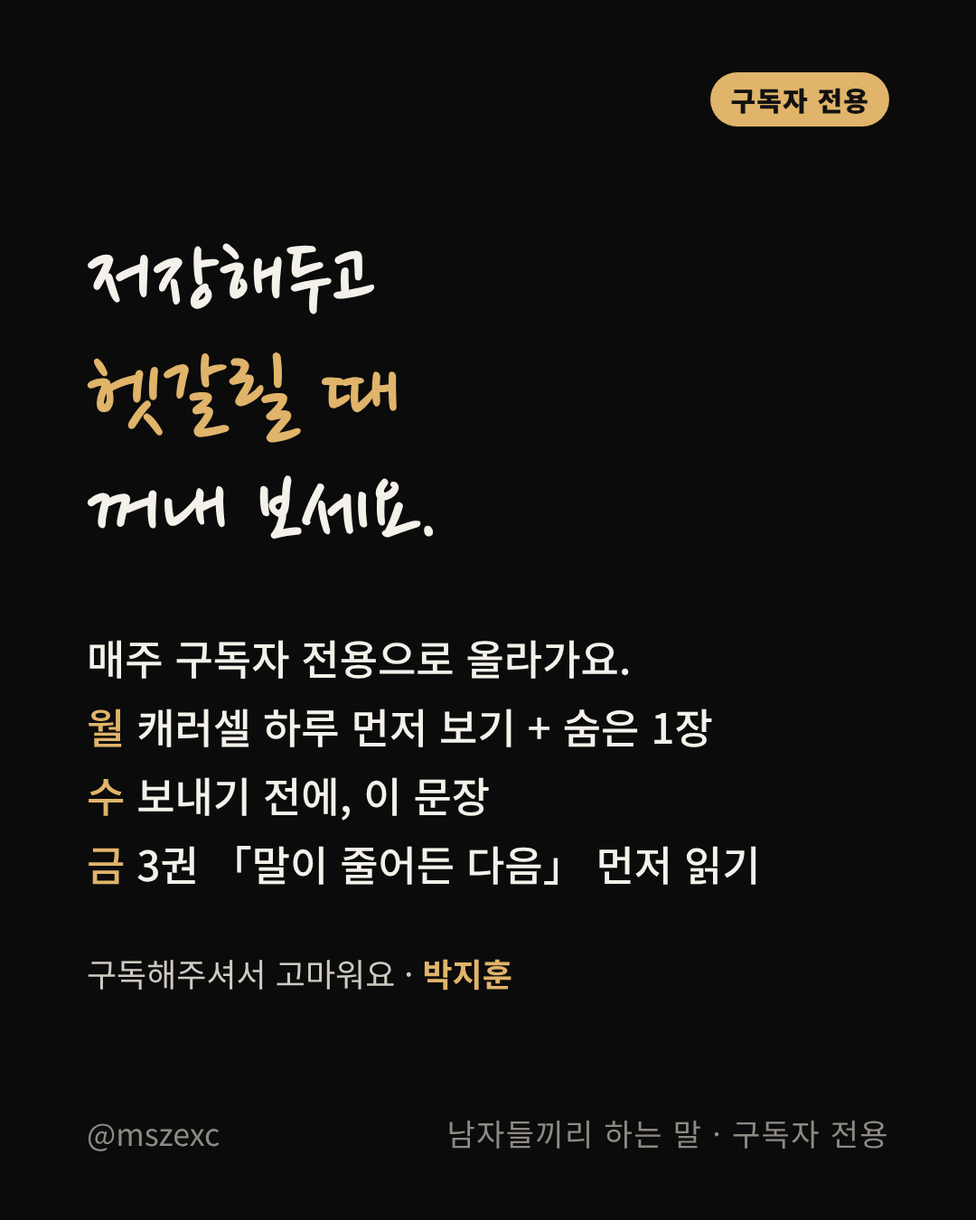
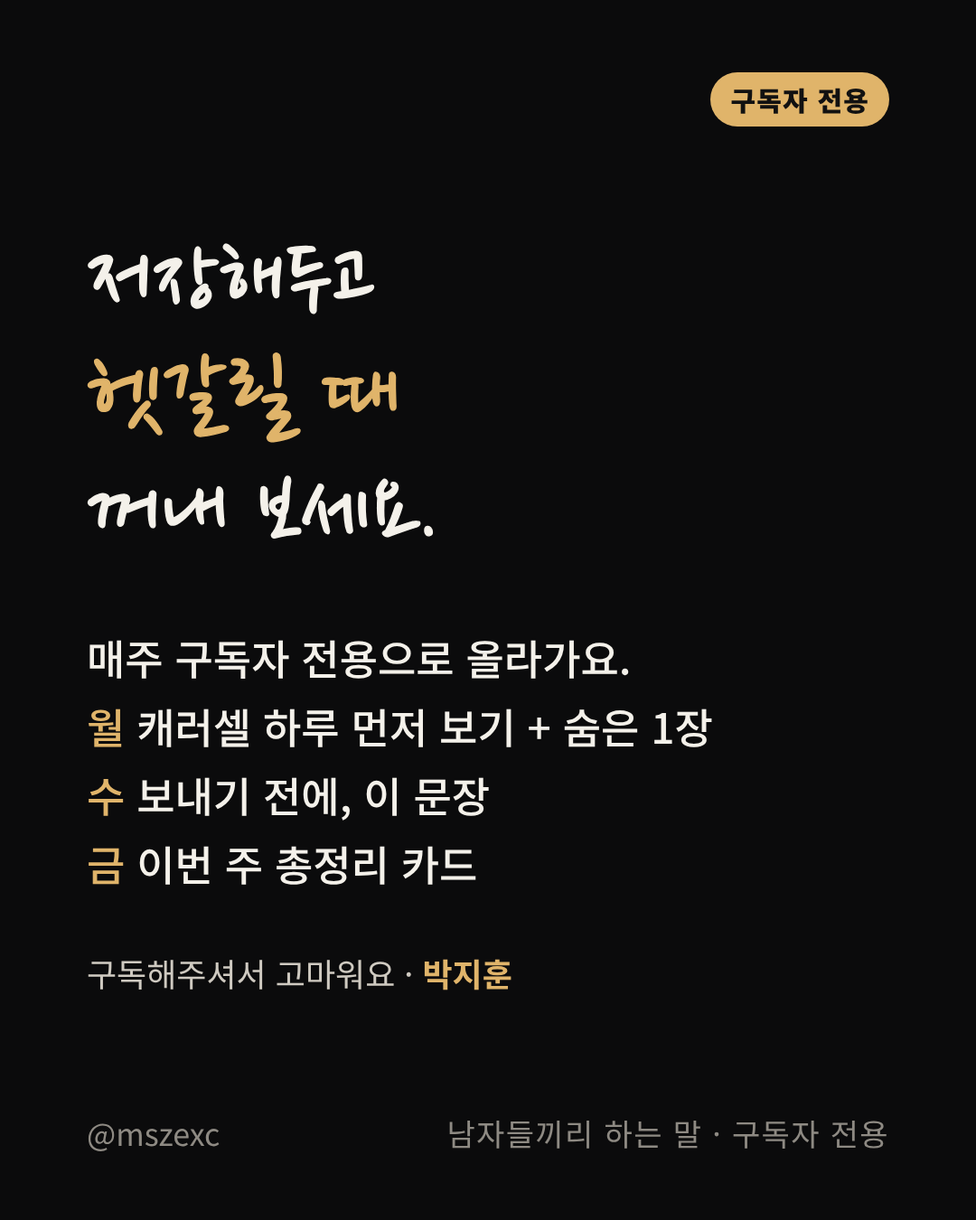
Carousel #20 (썸 번역); R2 closing for same-day post; subscription: Friday recap card and preview strategy
Claude-Session: https://claude.ai/code/session_01J9i5yL8MFhQ5W67Sx3nDW6

Changed region(s): [[0.1222, 0.6844, 0.55, 0.7467], [0.6111, 0.6844, 0.7944, 0.7467]]

diff --git a/carousel/carousel_20.html b/carousel/carousel_20.html
@@ -1,0 +1,258 @@
+<!doctype html>
+<html lang="ko">
+<head>
+<meta charset="utf-8">
+<link rel="stylesheet" href="https://fonts.googleapis.com/css2?family=Nanum+Pen+Script&family=Noto+Sans+KR:wght@400;500;700;900&display=block">
+<style>
+  :root { --bg:#0b0b0c; --ink:#f4f1ea; --dim:#8e8a83; --accent:#e0b46a; --cold:#7fa7c9; --line:#2a2a2d; }
+  * { box-sizing:border-box; margin:0; padding:0; }
+  body { word-break:keep-all; background:#222; font-family:'Noto Sans KR', sans-serif; color:var(--ink); }
+  .slide { width:1080px; height:1350px; background:var(--bg); position:relative; overflow:hidden;
+           padding:120px 96px; display:flex; flex-direction:column; justify-content:center; margin-bottom:20px; }
+  .pen { font-family:'Nanum Pen Script', cursive; font-weight:400; line-height:1.15; }
+  .h1 { font-size:150px; }
+  .h2 { font-size:112px; }
+  .h3 { font-size:86px; }
+  .body { font-size:46px; line-height:1.65; font-weight:500; }
+  .small { font-size:34px; color:var(--dim); line-height:1.6; }
+  .dim { color:var(--dim); }
+  .accent { color:var(--accent); }
+  .cold { color:var(--cold); }
+  .series { position:absolute; right:96px; bottom:72px; font-size:28px; color:var(--dim); letter-spacing:.04em; }
+  .handle { position:absolute; left:96px; bottom:72px; font-size:28px; color:var(--dim); }
+  .num { position:absolute; left:96px; top:80px; font-size:30px; color:var(--dim); letter-spacing:.08em; }
+  .swipe { position:absolute; right:96px; top:80px; font-size:30px; color:var(--dim); }
+  .mt-s { margin-top:28px; } .mt-m { margin-top:56px; } .mt-l { margin-top:96px; }
+  .rule { height:2px; background:var(--line); margin:56px 0; }
+  /* cover */
+  .photo { position:absolute; inset:0; background:
+           radial-gradient(ellipse at 50% 38%, #3a3a3e 0%, #161617 55%, #0b0b0c 80%); }
+  .photo-note { position:absolute; top:330px; left:0; right:0; text-align:center; font-size:30px; color:#55555a;
+                border:3px dashed #3a3a3e; margin:0 220px; padding:150px 0; border-radius:24px; }
+  .cover-text { position:absolute; left:96px; right:96px; bottom:200px; }
+  .shade { position:absolute; left:0; right:0; bottom:0; height:700px; background:linear-gradient(transparent, rgba(0,0,0,.92) 45%); }
+  /* compare */
+  .topic { font-size:40px; font-weight:700; color:var(--dim); letter-spacing:.06em; }
+  .row { display:flex; flex-direction:column; gap:36px; margin-top:64px; }
+  .card { border-radius:28px; padding:44px 52px; }
+  .card.cold { background:#111a22; border:2px solid #24384a; }
+  .card.warm { background:#1d1710; border:2px solid #4a3a20; }
+  .tag { font-size:32px; font-weight:900; margin-bottom:16px; }
+  .card .pen { font-size:80px; margin-bottom:20px; color:var(--ink); }
+  .card p { font-size:36px; line-height:1.6; color:#cfcac1; }
+  .key { margin-top:64px; font-size:40px; line-height:1.6; font-weight:700; }
+  /* share slide */
+  .msg { background:#1c1c1f; border-radius:36px; padding:52px 56px; font-size:46px; line-height:1.6; position:relative; }
+  .msg:after { content:''; position:absolute; left:60px; bottom:-26px; border:16px solid transparent; border-top:20px solid #1c1c1f; }
+  .btns { display:flex; gap:24px; margin-top:72px; }
+  .btn { flex:1; text-align:center; padding:34px 0; border-radius:20px; font-size:36px; font-weight:700; }
+  .btn.share { background:var(--accent); color:#111; }
+  .btn.save { border:2px solid #444; color:var(--ink); }
+  .sub { margin-top:60px; font-size:32px; color:var(--dim); line-height:1.6; }
+</style>
+<style>
+  .phrase { font-family:'Nanum Pen Script'; font-size:150px; line-height:1.1; }
+  .tr { margin-top:64px; border-top:2px solid var(--line); }
+  .tr .r { padding:34px 0; border-bottom:2px solid var(--line); }
+  .tr .k { font-size:30px; font-weight:900; letter-spacing:.06em; margin-bottom:12px; }
+  .tr .v { font-size:42px; line-height:1.55; font-weight:500; }
+  .do { margin-top:48px; font-size:36px; line-height:1.6; color:#cfcac1; }
+  .do b { color:var(--accent); }
+</style>
+<style>
+  .xl { list-style:none; margin:56px 0 0; padding:0; }
+  .xl li { padding:30px 0; border-bottom:2px solid var(--line); }
+  .xl .q { font-family:'Nanum Pen Script'; font-size:92px; line-height:1.1; }
+  .xl .q b { color:#d88; font-family:'Noto Sans KR'; font-weight:900; font-size:48px; margin-right:18px; vertical-align:middle; }
+  .xl .w { font-size:34px; color:var(--dim); margin-top:8px; }
+  .mean { font-size:30px; font-weight:900; color:var(--accent); letter-spacing:.08em; }
+  .cover-c { position:absolute; left:96px; right:96px; top:50%; transform:translateY(-55%); }
+  .quote-big { font-family:'Nanum Pen Script'; font-size:120px; line-height:1.12; }
+</style>
+<style>
+  .prog { position:absolute; left:96px; right:96px; top:80px; display:flex; align-items:center; gap:14px; }
+  .prog .lbl { font-size:30px; color:var(--dim); font-weight:700; letter-spacing:.06em; margin-right:8px; font-variant-numeric:tabular-nums; }
+  .prog i { flex:1; height:6px; border-radius:3px; background:#2a2a2d; }
+  .prog i.on { background:var(--accent); }
+  .big-rule { font-family:'Nanum Pen Script'; font-size:118px; line-height:1.12; }
+  .feel2 { margin-top:72px; font-size:46px; line-height:1.6; font-weight:500; color:#d9d4cb; }
+  .feel2 b { color:var(--accent); font-weight:700; }
+  .who { font-size:32px; font-weight:900; color:var(--accent); letter-spacing:.06em; margin-bottom:16px; }
+  .inv { background:#f2ede3 !important; color:#151515; }
+  .inv .dim2 { color:#6b665d; }
+  .inv .accent2 { color:#a8742a; }
+  .inv .series, .inv .handle { color:#8a857b; }
+  .ck { list-style:none; margin:40px 0 0; padding:0; }
+  .ck li { display:flex; gap:24px; align-items:center; padding:14px 0; border-bottom:2px solid var(--line); font-size:36px; font-weight:500; }
+  .ck li span.b { width:44px; height:44px; flex:0 0 44px; border:3px solid var(--accent); border-radius:10px; }
+  .counter { display:inline-flex; align-items:baseline; gap:12px; margin-top:64px; border:3px solid var(--accent); border-radius:28px; padding:20px 40px; }
+  .counter .n { font-size:120px; font-weight:900; color:var(--accent); line-height:1; }
+  .counter .t { font-size:40px; color:var(--dim); font-weight:700; }
+  .howto { margin-top:36px; font-size:34px; line-height:1.6; color:#cfcac1; }
+  .howto b { color:var(--accent); }
+</style>
+<style>
+  .types { display:grid; gap:18px; margin-top:36px; }
+  .ty { border:2px solid var(--line); border-radius:28px; padding:30px 36px; background:#141416; }
+  .ty .h { display:flex; align-items:baseline; gap:20px; }
+  .ty .c { font-size:30px; color:var(--dim); font-weight:700; font-variant-numeric:tabular-nums; }
+  .ty .n { font-family:'Nanum Pen Script'; font-size:84px; line-height:1; }
+  .ty .d { font-size:34px; color:#d9d4cb; margin-top:10px; line-height:1.5; }
+  .ty.hi { border-color:var(--accent); }
+  .letter { background:#f4f1ea; color:#151515; border-radius:32px; padding:52px 56px; font-size:44px; line-height:1.7; font-weight:500; margin-top:40px; }
+  .letter b { color:#a8742a; }
+</style>
+<style>
+  /* legibility pass: min ~36px source (~13px on phone), thicker handwriting strokes */
+  .pen, .big-rule, .rule-t, .ty .n, .quote-big { -webkit-text-stroke: 1.4px currentColor; paint-order: stroke fill; }
+  .series, .handle { font-size:34px !important; }
+  .prog .lbl { font-size:36px !important; }
+  .who { font-size:38px !important; }
+  .small { font-size:38px !important; }
+  .ty .c { font-size:36px !important; }
+  .ty .d { font-size:38px !important; }
+  .howto { font-size:38px !important; }
+  .inv .accent2 { color:#8a5a12 !important; }
+  .inv .series, .inv .handle { color:#6b665d !important; }
+  .feel2 { color:#e6e1d8 !important; }
+</style>
+<style>
+  /* cover standard: bold gothic title + handwritten top line; slides 2+ stay handwritten */
+  #s1 .cover-c .pen { font-family:'Noto Sans KR',sans-serif !important; font-weight:900 !important; -webkit-text-stroke:0 !important; letter-spacing:-0.03em; line-height:1.18 !important; font-size:150px !important; }
+  #s1 .cover-c .small { font-family:'Nanum Pen Script',cursive !important; font-size:64px !important; color:#d6d1c8 !important; -webkit-text-stroke:1px currentColor; }
+</style>
+<style>
+  .phrase { font-family:'Nanum Pen Script'; font-size:116px; line-height:1.12; -webkit-text-stroke:1.4px currentColor; paint-order:stroke fill; margin-top:40px; }
+  .tr { margin-top:56px; border-top:2px solid var(--line); }
+  .tr .r { padding:30px 0; border-bottom:2px solid var(--line); }
+  .tr .k { font-size:34px; font-weight:900; letter-spacing:.06em; margin-bottom:10px; }
+  .tr .v { font-size:44px; line-height:1.5; font-weight:500; }
+  .tr .v.dim { color:#a29d94; }
+  .do { margin-top:44px; font-size:38px; line-height:1.6; color:#e6e1d8; }
+  .do b { color:var(--accent); }
+  .byline { margin-top:56px; font-size:36px; color:#cfcac1; }
+  .byline b { color:var(--accent); }
+  .next { margin-top:44px; border:3px solid var(--accent); border-radius:32px; padding:40px 48px; background:#17130c; }
+  .next .k { font-size:36px; font-weight:900; color:var(--accent); letter-spacing:.06em; }
+  .next .t { font-family:'Nanum Pen Script'; font-size:96px; line-height:1.12; margin-top:14px; -webkit-text-stroke:1.4px currentColor; paint-order:stroke fill; }
+  .fbtn { display:flex; gap:24px; margin-top:48px; }
+  .fbtn div { flex:1; text-align:center; padding:32px 0; border-radius:20px; font-size:38px; font-weight:900; }
+  .fbtn .f { background:var(--accent); color:#111; }
+  .fbtn .s { border:2px solid #555; color:var(--ink); }
+</style>
+</head>
+<body>
+<section class="slide" id="s1">
+  <div class="cover-c">
+    <div class="small">남자가 직접 번역합니다</div>
+    <div class="pen mt-s" style="font-size:132px !important">썸에서<br>남자가 하는 말,<br><span class="accent">진짜 뜻</span></div>
+    <div class="body mt-m" style="color:#d6d1c8">설레기 전에, 번역부터</div>
+  </div>
+  <div class="handle">@mszexc</div>
+  <div class="series">넘겨보세요 →</div>
+</section>
+
+<section class="slide" id="s2">
+  <div class="pen h2">썸인지 어장인지,<br><span class="accent">말로는 헷갈리죠.</span></div>
+  <div class="body mt-m">설레지만 어장인 말 4개, 진짜 신호 2개.<br>섞여 있어요. 번역해 드릴게요.</div>
+  <div class="byline">남자인 제가 직접 말합니다 · <b>박지훈</b></div>
+  <div class="series">남자들끼리 하는 말 #20</div>
+</section>
+<section class="slide" id="s3">
+  <div class="prog"><span class="lbl">1 / 6</span><i class="on"></i><i class=""></i><i class=""></i><i class=""></i><i class=""></i><i class=""></i></div>
+  <div class="who">썸에서 하는 말 1 <span style="display:inline-block;margin-left:14px;font-size:30px;color:#111;background:#c98d8d;border-radius:999px;padding:4px 18px;vertical-align:middle">어장 신호</span></div>
+  <div class="phrase">"너랑 있으면<br>편해"</div>
+  <div class="tr">
+    <div class="r"><div class="k cold">당신이 듣는 뜻</div><div class="v dim">나 좋아하나?</div></div>
+    <div class="r"><div class="k accent">남자가 하는 뜻</div><div class="v">편한 건 맞아요.<br>설레지 않는다는 뜻일 수도 있어요.</div></div>
+  </div>
+  <div class="do"><b>이렇게 하세요</b> · 편한 사이에서 멈추지 않으려면, <b>다음 만남을 그가 잡는지</b> 보세요.</div>
+  <div class="series">남자들끼리 하는 말 #20</div>
+</section>
+<section class="slide" id="s4">
+  <div class="prog"><span class="lbl">2 / 6</span><i class="on"></i><i class="on"></i><i class=""></i><i class=""></i><i class=""></i><i class=""></i></div>
+  <div class="who">썸에서 하는 말 2 <span style="display:inline-block;margin-left:14px;font-size:30px;color:#111;background:#c98d8d;border-radius:999px;padding:4px 18px;vertical-align:middle">어장 신호</span></div>
+  <div class="phrase">"우리 언제<br>한번 보자"</div>
+  <div class="tr">
+    <div class="r"><div class="k cold">당신이 듣는 뜻</div><div class="v dim">만나자는 거구나</div></div>
+    <div class="r"><div class="k accent">남자가 하는 뜻</div><div class="v">날짜가 없으면<br>약속이 아니라 인사예요.</div></div>
+  </div>
+  <div class="do"><b>이렇게 하세요</b> · <b>"이번 주 토요일 어때?"</b> 한 번 던져 보세요. 피하면 그게 답이에요.</div>
+  <div class="series">남자들끼리 하는 말 #20</div>
+</section>
+<section class="slide" id="s5">
+  <div class="prog"><span class="lbl">3 / 6</span><i class="on"></i><i class="on"></i><i class="on"></i><i class=""></i><i class=""></i><i class=""></i></div>
+  <div class="who">썸에서 하는 말 3 <span style="display:inline-block;margin-left:14px;font-size:30px;color:#111;background:#c98d8d;border-radius:999px;padding:4px 18px;vertical-align:middle">어장 신호</span></div>
+  <div class="phrase">"너 같은 여자<br>만나고 싶다"</div>
+  <div class="tr">
+    <div class="r"><div class="k cold">당신이 듣는 뜻</div><div class="v dim">고백인가?</div></div>
+    <div class="r"><div class="k accent">남자가 하는 뜻</div><div class="v">"너"가 아니라 "너 같은"이에요.<br>당신은 기준이지, 대상이 아니에요.</div></div>
+  </div>
+  <div class="do"><b>이렇게 하세요</b> · 설레지 말고 <b>행동</b>을 보세요. 진짜면 "너랑"이라고 해요.</div>
+  <div class="series">남자들끼리 하는 말 #20</div>
+</section>
+<section class="slide" id="s6">
+  <div class="prog"><span class="lbl">4 / 6</span><i class="on"></i><i class="on"></i><i class="on"></i><i class="on"></i><i class=""></i><i class=""></i></div>
+  <div class="who">썸에서 하는 말 4 <span style="display:inline-block;margin-left:14px;font-size:30px;color:#111;background:#c98d8d;border-radius:999px;padding:4px 18px;vertical-align:middle">어장 신호</span></div>
+  <div class="phrase">"뭐해?"</div>
+  <div class="tr">
+    <div class="r"><div class="k cold">당신이 듣는 뜻</div><div class="v dim">관심 있나 봐</div></div>
+    <div class="r"><div class="k accent">남자가 하는 뜻</div><div class="v">심심한 거예요.<br>관심은 그다음 질문에서 보여요.</div></div>
+  </div>
+  <div class="do"><b>이렇게 하세요</b> · 답하고 나서 <b>질문이 이어지는지</b> 보세요. "뭐해?"에서 끝나면 심심함이에요.</div>
+  <div class="series">남자들끼리 하는 말 #20</div>
+</section>
+<section class="slide" id="s7">
+  <div class="prog"><span class="lbl">5 / 6</span><i class="on"></i><i class="on"></i><i class="on"></i><i class="on"></i><i class="on"></i><i class=""></i></div>
+  <div class="who">썸에서 하는 말 5 <span style="display:inline-block;margin-left:14px;font-size:30px;color:#111;background:#a9d18e;border-radius:999px;padding:4px 18px;vertical-align:middle">진짜 신호</span></div>
+  <div class="phrase">"너는<br>연애 안 해?"</div>
+  <div class="tr">
+    <div class="r"><div class="k cold">당신이 듣는 뜻</div><div class="v dim">떠보는 건가?</div></div>
+    <div class="r"><div class="k accent">남자가 하는 뜻</div><div class="v">맞아요, 떠보는 거예요.<br>자리가 비었는지 확인하는 질문이에요.</div></div>
+  </div>
+  <div class="do"><b>이렇게 하세요</b> · 관심 있는 남자의 질문이에요. <b>"왜? 궁금해?"</b> 웃으면서 공을 넘기세요.</div>
+  <div class="series">남자들끼리 하는 말 #20</div>
+</section>
+<section class="slide" id="s8">
+  <div class="prog"><span class="lbl">6 / 6</span><i class="on"></i><i class="on"></i><i class="on"></i><i class="on"></i><i class="on"></i><i class="on"></i></div>
+  <div class="who">썸에서 하는 말 6 <span style="display:inline-block;margin-left:14px;font-size:30px;color:#111;background:#a9d18e;border-radius:999px;padding:4px 18px;vertical-align:middle">진짜 신호</span></div>
+  <div class="phrase">"다음엔<br>내가 살게"</div>
+  <div class="tr">
+    <div class="r"><div class="k cold">당신이 듣는 뜻</div><div class="v dim">예의상 하는 말</div></div>
+    <div class="r"><div class="k accent">남자가 하는 뜻</div><div class="v">다음을 만들고 싶은 거예요.<br>썸에서 가장 확실한 신호예요.</div></div>
+  </div>
+  <div class="do"><b>이렇게 하세요</b> · 바로 받아주세요. <b>"그럼 다음은 언제?"</b></div>
+  <div class="series">남자들끼리 하는 말 #20</div>
+</section>
+<section class="slide inv" id="s9">
+  <div class="body dim2">썸과 어장은<br>말로는 구별이 안 돼요.</div>
+  <div class="pen mt-m" style="font-size:112px;line-height:1.15">다음을 만드는지,<br><span class="accent2">오늘만 즐기는지.</span></div>
+  <div class="rule" style="background:#d9d2c4"></div>
+  <div class="body">진짜 썸인 남자는<br>날짜를 먼저 정해요.</div>
+  <div class="body dim2 mt-s">"언제 한번"만 반복된다면,<br>설레기 전에 한 걸음 물러서세요.</div>
+  <div class="series">남자들끼리 하는 말 #20</div>
+</section>
+
+<section class="slide" id="s10" style="justify-content:flex-start; padding-top:110px">
+  <div class="pen h3">그 사람은<br><span class="accent">어느 쪽인가요?</span></div>
+  <div class="types">
+    <div class="ty"><div class="h"><span class="c">진짜 신호가 있다</span><span class="n" style="color:#a9d18e">썸이에요</span></div><div class="d">"다음엔 내가 살게", 날짜를 그가 먼저 정해요.</div></div>
+    <div class="ty"><div class="h"><span class="c">질문만 있다</span><span class="n">간 보는 중</span></div><div class="d">궁금해는 하는데 약속은 없어요. 서두르지 마세요.</div></div>
+    <div class="ty hi"><div class="h"><span class="c">어장 신호만 있다</span><span class="n" style="color:var(--accent)">어장 가능성</span></div><div class="d">"언제 한번", "너 같은 여자"만 반복돼요.</div></div>
+  </div>
+  <div class="howto">댓글로 <b>"썸" "간" "어장"</b> 한 글자만.<br>요즘 썸 타는 친구에게 보내주세요.</div>
+  <div class="series">남자들끼리 하는 말 #20</div>
+</section>
+
+<section class="slide" id="s11">
+  <div class="pen h2">요즘 썸 타는<br><span class="accent">친구가 있다면</span></div>
+  <div class="body mt-m">지금 보내주세요.<br>설레기 전에 번역부터.</div>
+  <div class="btns">
+    <div class="btn share">↗ 친구에게 보내기</div>
+    <div class="btn save">저장해두기</div>
+  </div>
+  <div class="sub" style="font-size:36px">남자가 하는 말의 뜻은 전자책 1·2권에<br><span class="accent">프로필 링크에서 무료로 받아보세요</span></div>
+  <div class="handle">@mszexc</div>
+  <div class="series">남자들끼리 하는 말 #20</div>
+</section>
+</body></html>

diff --git a/carousel/sub/s00_gift.html b/carousel/sub/s00_gift.html
@@ -173,5 +173,5 @@
 <section class="slide"><div class="subbadge">구독자 전용</div><div class="sec">이별 신호</div><div class="ent"><div class="ph"><span class="no">28</span>"넌 나 없어도 잘 지낼 거야"</div><div class="mn">떠나도 괜찮을 이유를 찾는 중이에요.</div></div><div class="ent"><div class="ph"><span class="no">29</span>"요즘 나도 나를 잘 모르겠어"</div><div class="mn">관계에 대한 확신이 없는 걸 내 탓으로 돌린 말이에요.</div></div><div class="ent"><div class="ph"><span class="no">30</span>"그동안 고마웠어"</div><div class="mn">과거형이 나오면 이미 정리 중이에요.</div></div><div class="handle">@mszexc</div><div class="series">남자 말 번역 사전 30</div></section>
 <section class="slide"><div class="subbadge">구독자 전용</div>
   <div class="pen h2">저장해두고<br><span class="accent">헷갈릴 때</span><br>꺼내 보세요.</div>
-  <div class="body mt-m">매주 구독자 전용으로 올라가요.<br><span class="accent">월</span> 캐러셀 하루 먼저 보기 + 숨은 1장<br><span class="accent">수</span> 보내기 전에, 이 문장<br><span class="accent">금</span> 3권 「말이 줄어든 다음」 먼저 읽기</div>
+  <div class="body mt-m">매주 구독자 전용으로 올라가요.<br><span class="accent">월</span> 캐러셀 하루 먼저 보기 + 숨은 1장<br><span class="accent">수</span> 보내기 전에, 이 문장<br><span class="accent">금</span> 이번 주 총정리 카드</div>
   <div class="byline">구독해주셔서 고마워요 · <b>박지훈</b></div><div class="handle">@mszexc</div><div class="series">남자들끼리 하는 말 · 구독자 전용</div></section></body></html>

diff --git a/reels/R2.py b/reels/R2.py
@@ -12,7 +12,7 @@ R = {
   ('24~34초', '세 번째', '세 번째, 다음 약속 없이 헤어져요.\n"또 연락할게."\n\n예전엔 헤어지면서 다음 주를 정했잖아요.', ''),
   ('34~44초', '구별법', '근데 피곤한 남자도 이래요.\n구별하는 법은 하나예요.\n\n피곤한 남자는 일찍 헤어지면서\n"오늘 일찍 가서 미안해, 다음엔 길게 보자" 해요.\n식은 남자는 일찍 가는 걸 미안해하지 않아요.\n그냥 "들어갈게."', '자막 강조(금색): 식은 남자는 미안해하지 않아요'),
   ('44~52초', '이 한마디', '그럴 땐 한 번 이렇게 말해보세요.\n"이번엔 네가 정해줘."\n\n정하는 남자는 아직 마음이 있는 거예요.\n또 "아무 데나"면, 그때가 얘기할 때예요.', '자막 강조(금색): "이번엔 네가 정해줘"'),
-  ('52~60초', '끝 멘트', '남자들은 이 얘기 여자한테 안 해요.\n그래서 제가 해요.\n\n나머지 3개는 목요일 캐러셀에 올릴게요.\n1·2권은 프로필에 무료로 올려뒀어요.', '마지막 2초 멈춤 (댓글 쓸 시간)'),
+  ('52~60초', '끝 멘트', '남자들은 이 얘기 여자한테 안 해요.\n그래서 제가 해요.\n\n나머지 3개는 오늘 올린 캐러셀에 있어요.\n프로필에서 바로 볼 수 있어요.\n1·2권도 프로필에 무료로 올려뒀어요.', '마지막 2초 멈춤 (댓글 쓸 시간)'),
  ],
  'caption': '''데이트가 줄었다고 느낄 땐, 이미 늦어요.
 남자는 그 전에 이게 먼저 바뀌어요.
@@ -30,7 +30,7 @@ R = {
 정하는 남자는 아직 있는 거예요.
 
 요즘 데이트가 "아무 데나"로 시작하는 친구에게 보내주세요.
-나머지 3개는 목요일 캐러셀에 올릴게요.
+나머지 3개는 오늘 올린 캐러셀에 있어요. 프로필에서 바로 보세요.
 
 📕 남자가 하는 말의 뜻은 「남자들끼리 하는 말」 1·2권에 적었습니다.
 프로필 링크에서 무료로 받아보세요.

diff --git a/carousel/plan90/plan90.py b/carousel/plan90/plan90.py
@@ -124,7 +124,7 @@ for d in range(DAYS):
         used.add(t); rows.append((day,slot,s,t,note))
 # seasonal leftovers check
 left = {k:[ (it if isinstance(it,str) else it[0]) for it in v[1] if (it if isinstance(it,str) else it[0]) not in used] for k,v in S.items()}
-DONE={'싸운 다음 날 남자가 하는 말들, 진짜 뜻','남자가 마음이 떠나면, 싸움보다 먼저 사라지는 것','여자가 "서운해"라고 할 때, 원하는 건 해결이 아닙니다','남자가 진심일 때만 하는 행동','헤어진 남자가 돌아오고 싶을 때 하는 말들','좋은 남자를 놓치는 법','헤어지고 남자가 가장 늦게 지우는 것','다시 좋아진 걸까, 정리하는 걸까','편해진 걸까, 식은 걸까','남자가 식을 때, 데이트보다 먼저 바뀌는 것'}
+DONE={'싸운 다음 날 남자가 하는 말들, 진짜 뜻','남자가 마음이 떠나면, 싸움보다 먼저 사라지는 것','여자가 "서운해"라고 할 때, 원하는 건 해결이 아닙니다','남자가 진심일 때만 하는 행동','헤어진 남자가 돌아오고 싶을 때 하는 말들','좋은 남자를 놓치는 법','헤어지고 남자가 가장 늦게 지우는 것','다시 좋아진 걸까, 정리하는 걸까','편해진 걸까, 식은 걸까','남자가 식을 때, 데이트보다 먼저 바뀌는 것','썸에서 남자가 하는 말, 진짜 뜻'}
 rows=[(a,b,c,t,('완성' if t in DONE else n)) for a,b,c,t,n in rows]
 json.dump({'rows':[(r[0].isoformat(),r[1],r[2],r[3],r[4]) for r in rows],'left':left,'series':{k:v[0] for k,v in S.items()}}, open('/home/user/-/carousel/plan90/plan90.json','w'), ensure_ascii=False, indent=0)
 from collections import Counter

diff --git a/carousel/plan90/reels90.py b/carousel/plan90/reels90.py
@@ -24,7 +24,8 @@ while day<=dt.date(2027,1,13):
 import importlib.util
 by={x['date']:x for x in reels}
 by['2026-11-15'].update(title='남자의 말이 줄어들 때, 여자가 꼭 알아야 할 것',s='S7',link_no=None,link_date=None,link_t=None,done='3권 예약 마감(11/17) 홍보')
-by['2026-10-18']['done']='업로드 완료'; by['2026-10-20']['done']='대본 완성'
+by['2026-10-18']['done']='업로드 완료'; by['2026-10-20']['done']='대본 완성 · 10/22 업로드 (캐러셀 #19 다음에)'
+by['2026-10-22']['done']='건너뜀 · R2가 10/22로 밀림'
 spec=importlib.util.spec_from_file_location('h','/home/user/-/reels/her_reasons.py'); h=importlib.util.module_from_spec(spec); spec.loader.exec_module(h)
 for rank,title,hook,flip,date in h.HER:
     by[date].update(title=title,s='W',link_no=None,link_date=None,link_t=None,kind='W',hook=hook,flip=flip,rank=rank)

diff --git a/carousel/sub/sub_data.py b/carousel/sub/sub_data.py
@@ -30,7 +30,7 @@ CAP_GIFT = '''구독해주셔서 고마워요. 🙏
 구독자 전용으로 매주 올라가요.
 월 · 캐러셀 하루 먼저 보기 + 숨은 1장
 수 · 보내기 전에, 이 문장
-금 · 3권 「말이 줄어든 다음」 먼저 읽기
+금 · 이번 주 총정리 카드
 
 — 박지훈'''
 def cap_week(theme):

diff --git a/reels/R2_script.md b/reels/R2_script.md
@@ -1,9 +1,9 @@
-# 릴스 R2 · 10/20(화) 「남자가 식을 때, 데이트보다 먼저 바뀌는 것」
+# 릴스 R2 · 10/22(목) 업로드 「남자가 식을 때, 데이트보다 먼저 바뀌는 것」
 
 상단 텍스트: 남자가 식을 때, / 데이트보다 먼저 바뀌는 것  
 작은 글씨: 남자들끼리 하는 말 · 릴스 2  
 길이: 약 62초  
-연결: 10/22(목) 캐러셀 #19
+연결: 같은 날 11~12시 캐러셀 #19 (먼저 올라감)
 
 ## 대본
 
@@ -71,8 +71,9 @@ _자막 강조(금색): "이번엔 네가 정해줘"_
 남자들은 이 얘기 여자한테 안 해요.  
 그래서 제가 해요.  
   
-나머지 3개는 목요일 캐러셀에 올릴게요.  
-1·2권은 프로필에 무료로 올려뒀어요.
+나머지 3개는 오늘 올린 캐러셀에 있어요.  
+프로필에서 바로 볼 수 있어요.  
+1·2권도 프로필에 무료로 올려뒀어요.
 
 _마지막 2초 멈춤 (댓글 쓸 시간)_
 
@@ -101,7 +102,7 @@ _마지막 2초 멈춤 (댓글 쓸 시간)_
 정하는 남자는 아직 있는 거예요.
 
 요즘 데이트가 "아무 데나"로 시작하는 친구에게 보내주세요.
-나머지 3개는 목요일 캐러셀에 올릴게요.
+나머지 3개는 오늘 올린 캐러셀에 있어요. 프로필에서 바로 보세요.
 
 📕 남자가 하는 말의 뜻은 「남자들끼리 하는 말」 1·2권에 적었습니다.
 프로필 링크에서 무료로 받아보세요.

diff --git a/carousel/plan90/captions90.md b/carousel/plan90/captions90.md
@@ -357,3 +357,36 @@
 ```
 6개 중에 몇 개 보여요? 숫자만 남겨주세요 👇
 ```
+
+## #20 썸에서 남자가 하는 말, 진짜 뜻
+
+**캡션**
+```
+썸에서 남자가 하는 말, 설레기 전에 번역부터 해보세요.
+
+"너랑 있으면 편해"
+→ 편한 건 맞아요. 설레지 않는다는 뜻일 수도 있어요.
+"우리 언제 한번 보자"
+→ 날짜가 없으면 약속이 아니라 인사예요.
+"다음엔 내가 살게"
+→ 이건 진짜 신호예요. 다음을 만들고 싶은 거예요.
+
+어장 신호 4개, 진짜 신호 2개. 넘겨서 확인해 보세요.
+
+📌 썸과 어장은 말로는 구별이 안 돼요.
+다음을 만드는지, 오늘만 즐기는지.
+진짜 썸인 남자는 날짜를 먼저 정해요.
+
+댓글로 "썸" "간" "어장" 한 글자만 남겨주세요.
+요즘 썸 타는 친구에게 보내주세요.
+
+📕 남자가 하는 말의 뜻은 「남자들끼리 하는 말」 1·2권에 적었습니다.
+프로필 링크에서 무료로 받아보세요.
+
+#썸 #남자심리 #연애심리 #어장 #남자속마음 #남자들끼리하는말
+```
+
+**고정 댓글**
+```
+그 사람은 어느 쪽이에요? "썸" "간" "어장" 한 글자만 👇
+```

diff --git a/carousel/plan90/plan90.md b/carousel/plan90/plan90.md
@@ -23,7 +23,7 @@
 - 10/21(수) 18~19시 [비교] #18 편해진 걸까, 식은 걸까 — 완성
 - 10/22(목) 11~12시 [신호] #19 남자가 식을 때, 데이트보다 먼저 바뀌는 것 — 완성
 - 10/22(목) 21시 [릴스] R3 바쁜 걸까, 피하는 걸까 → 캐러셀 #23 (10/24) 예고
-- 10/22(목) 18~19시 [번역] #20 썸에서 남자가 하는 말, 진짜 뜻
+- 10/22(목) 18~19시 [번역] #20 썸에서 남자가 하는 말, 진짜 뜻 — 완성
 - 10/23(금) 11~12시 [반어] #21 남자가 먼저 연락하지 않게 만드는 법
 - 10/23(금) 18~19시 [이별] #22 헤어지고 3개월, 남자 머릿속
 - 10/24(토) 11~12시 [비교] #23 바쁜 걸까, 피하는 걸까
